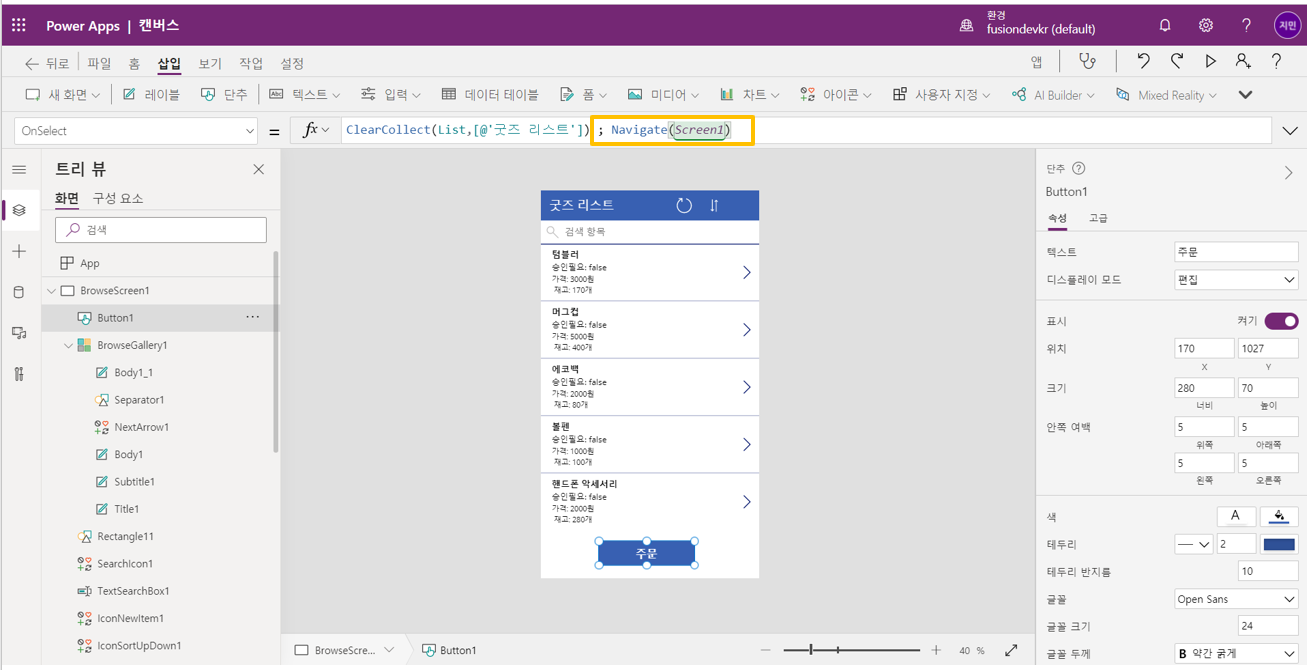
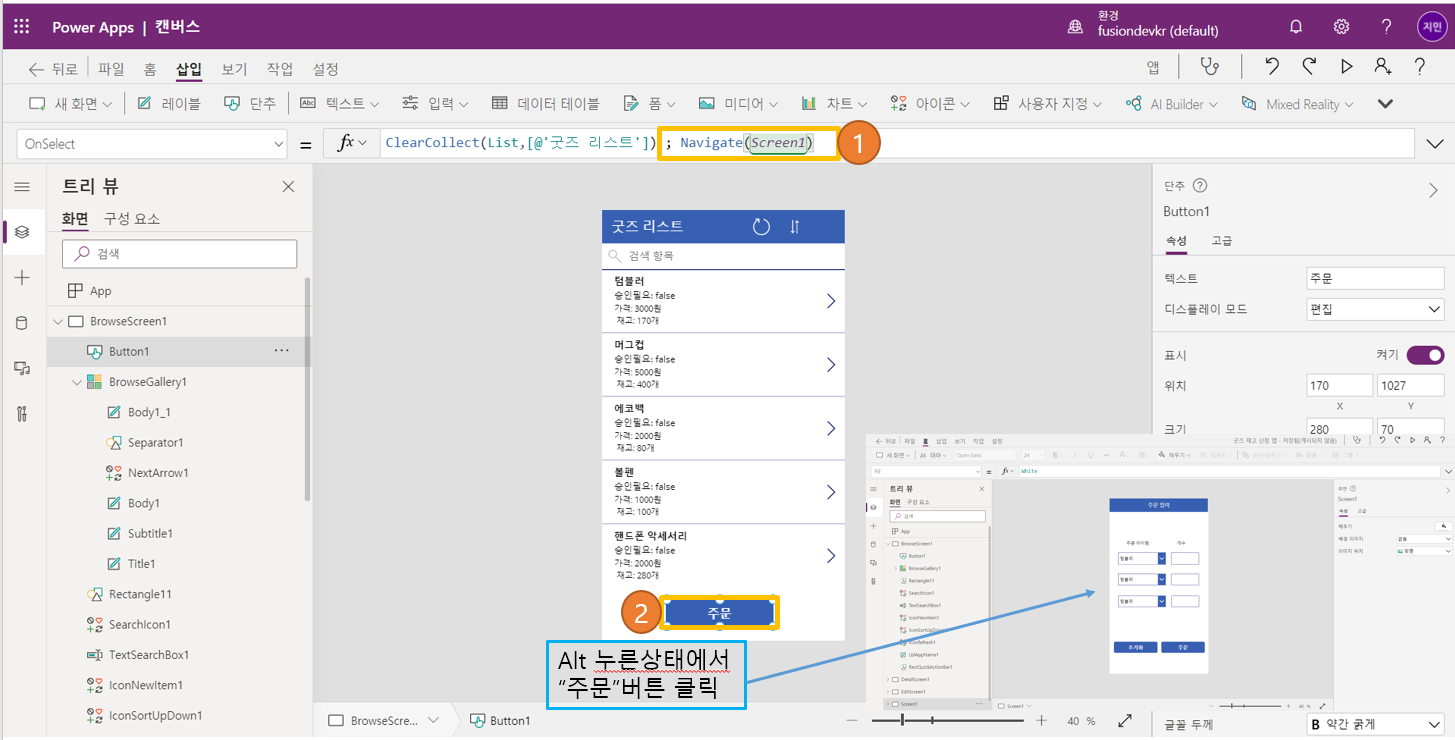
Update pages

diff --git a/content/workshops/pl-900/power-apps-2.md b/content/workshops/pl-900/power-apps-2.md
@@ -9,7 +9,7 @@ order: 5107
 
 ## 파워 앱 굿즈 신청 화면 수정 ##
 
-1. **체크포인트** 버튼 이름을 **주문**으로 변경하고 "**OnSelect**" 항목의 "**Fx**"에 아래 코드를 입력합니다. 입력 후에는 키보드의 `Alt` 키 또는 `Option` 키를 누른 상태에서 "**주문**"버튼을 클릭합니다.
+1. **삽입** 탭에서 단추를 클릭하여 생성 후 **주문**으로 텍스트 이름을 변경합니다. "**Button3**"의 "**OnSelect**" 항목에서 "**Fx**"에 아래 코드를 입력합니다. 입력 후에는 키보드의 `Alt` 키 또는 `Option` 키를 누른 상태에서 "**주문**"버튼을 클릭합니다.
 
     ```
     /* ItemCollection 이라는 이름으로 컬렉션을 생성 */
@@ -96,12 +96,10 @@ order: 5107
 
     ![화면전환2][image-07]
 
-3. "**Button3**"의 **OnSelect**속성을 클릭합니다. 화면 전환을 위하여 `Navigate()`함수를 사용합니다. 체크포인트에 체크인하기 위해 소스코드를 아래와 같이 추가 업데이트 합니다.
+3. "**Button3**"의 "**OnSelect**"속성을 클릭합니다. 화면 전환을 위하여 `Navigate()`함수를 사용합니다. 소스코드를 아래와 같이 추가 업데이트 합니다.
+
 
     ```
-    /* 체크포인트 2 */
-    CheckPointHelper.CheckIn({ checkpoint: 2, email: User().Email })
-
     /* ItemCollection 이라는 이름으로 컬렉션을 생성 */
     /* 파워 오토메이트 플로우에 보낼 데이터를 이 컬렉션에 저장 */
     ClearCollect(ItemCollection, {
@@ -126,9 +124,6 @@ order: 5107
             items: ItemCollection
         })
     ));
-
-    /* 체크포인트 4 */
-    CheckPointHelper.CheckIn({ checkpoint: 4, email: User().Email })
 
     /* 화면 전환 */
     Navigate(Screen2)

diff --git a/content/workshops/pl-900/power-apps-1.md b/content/workshops/pl-900/power-apps-1.md
@@ -143,7 +143,8 @@ order: 5105
 
     ![굿즈 신청 화면3][image-17]
 
-4. 화면 연결을 위하여 "**BrowseScreen1**"화면으로 이동합니다. "**Button1**"이 선택된 상태에서 "**OnSelect**" 속성의 "**Fx**"에 아래의 함수를 추가하여 업데이트 합니다. **Navigate함수**는 스크린 화면을 연결하여 버튼을 클릭하였을 때 화면이 전환되는 효과를 나타냅니다.
+4. 화면 연결을 위하여 "**BrowseScreen1**"화면으로 이동합니다. "**Button1**"이 선택된 상태에서 "**OnSelect**" 속성의 "**Fx**"에 아래의 함수를 추가하여 업데이트 합니다. **Navigate함수**는 스크린 화면을 연결하여 버튼을 클릭하였을 때 화면이 전환되는 효과를 나타냅니다. 아래의 "**Navigate**" 함수를 추가 후 `Alt`버튼을 누른 상태에서 **주문**버튼을 클릭하면 화면이 "**Screen1**"으로 전환됩니다.
+
 
     ```
     ClearCollect(List, [@'PL900GoodsList']);
